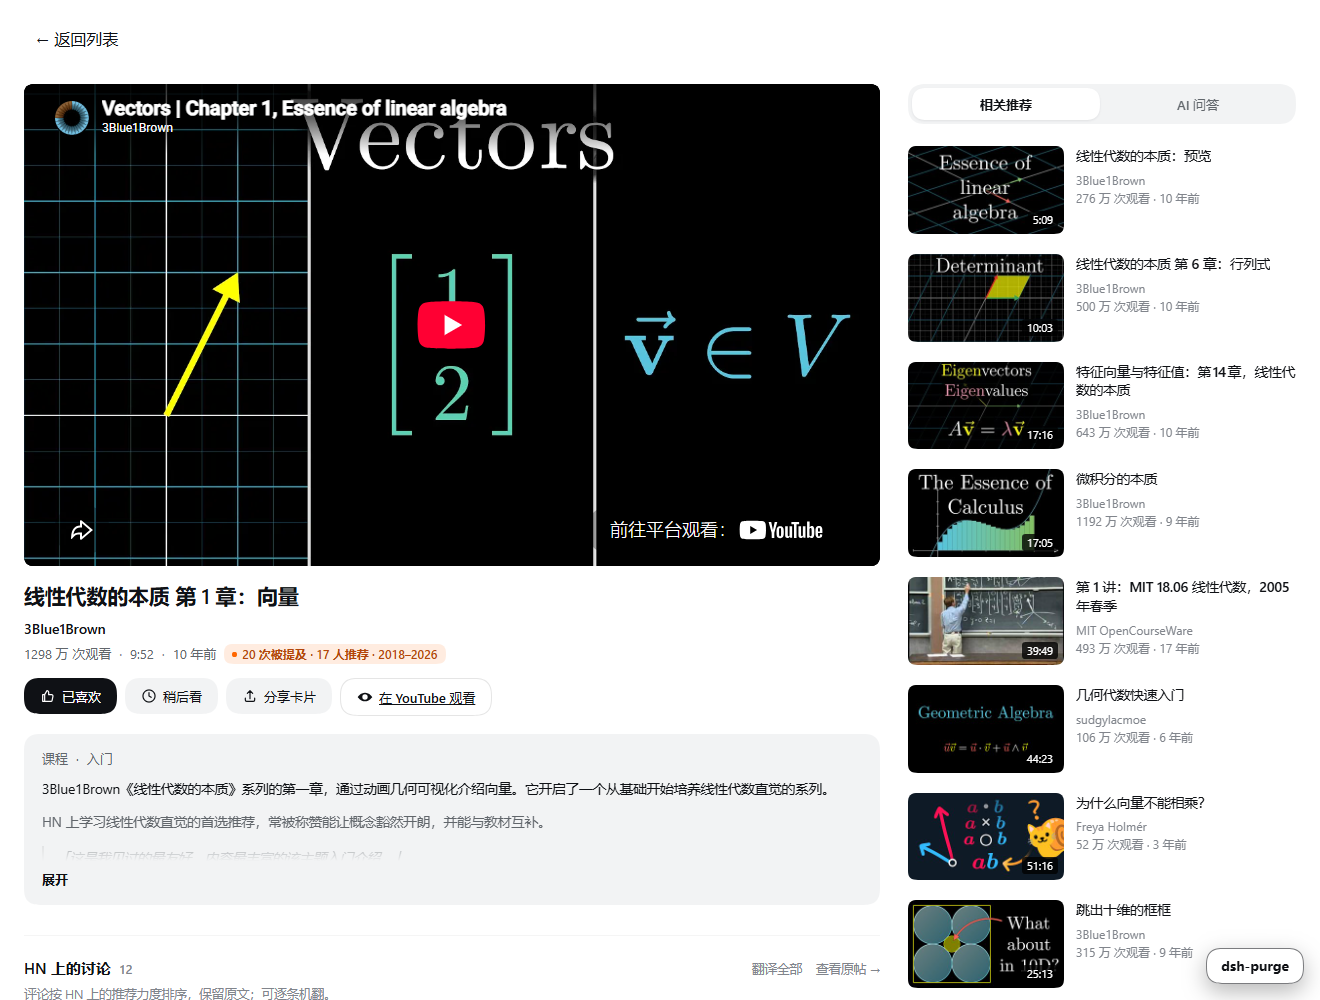
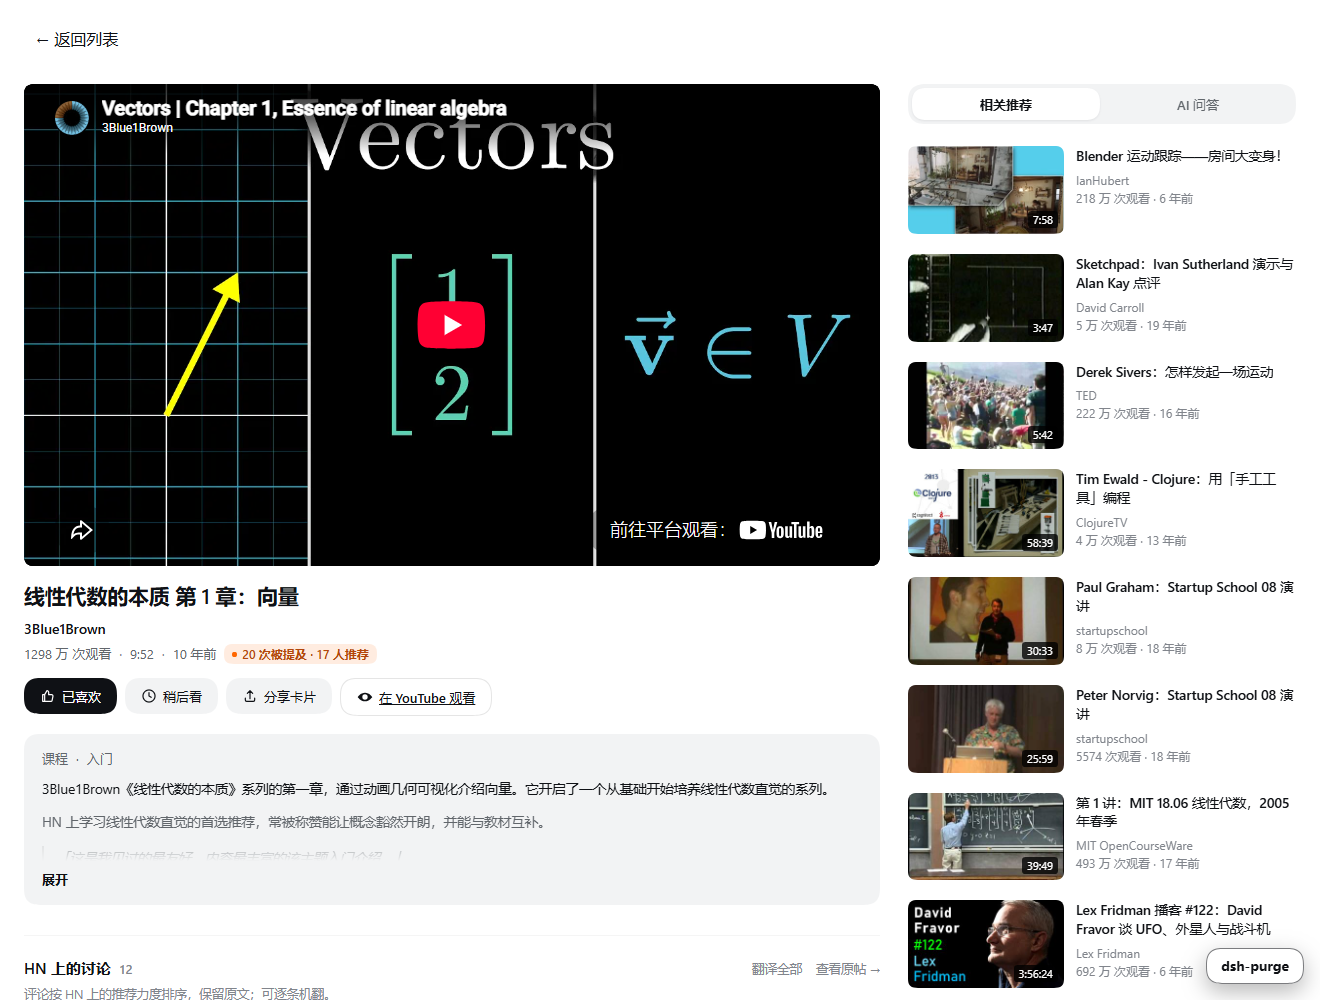
docs: 重写 README，补英文版
- 标题改用 DeepSeek Harness 官方名称，便于搜索命中
- 中文版按正式技术文档重写，删掉口语化表达与两处举例
- 新增 README.en.md，两版顶部互相跳转
- package.json 描述与关键词补齐 deepseek / deepseek-harness
- 首页与详情页截图更新为当前构建

Changed region(s): [[0.6833, 0.124, 0.9939, 0.992], [0.2795, 0.62, 0.3417, 0.682]]

diff --git a/README.md b/README.md
@@ -1,102 +1,174 @@
-# HackerTube for DSH
+# HackerTube for DeepSeek Harness
 
-把 [hackertube.org](https://hackertube.org) 收录的 6454 个视频（Hacker News 二十年里被反复推荐的技术视频）做成一块 DSH 面板：直接播放、中英双语、中文搜索、带 AI 问答和 HN 讨论。
+简体中文 | [English](README.en.md)
+
+在 DSH 面板内浏览并播放 Hacker News 二十年间反复推荐的技术视频，无需切换到浏览器。触手可及的高质量英文视频信源，让你的 DeepSeek Harness 变得更丰富有趣。
 
 ![首页](docs/home.png)
 
-![详情页](docs/watch.png)
+数据集来自 Andrej Karpathy 的 [HackerTube](https://karpathy.bearblog.dev/hacker-tube/)。站点提供完整的数据导出，作者在博客中说明其用途：
 
-## 功能
+> Export of the site's data available to give to your agent to easily create your own version.
 
-- **浏览**：首页网格、16 个大类 / 150 个二级分类、播放列表、喜欢、稍后看、历史
-- **播放**：自起中转服务器托管 YouTube IFrame 播放器，播放位置实时回传，用作 AI 的上下文
-- **双语界面**：中英一键切换，界面文案零混排；热度数字中文走「万 / 亿」，英文走 K / M / B
-- **中文搜索**：中文标题、英文原文、频道、标签、二级分类名都参与检索；中文查询会先机翻成英文再匹配英文标签
-- **标题译文**：6454 条人工水准的中文标题随仓库附带，装完即用，不消耗模型额度
-- **详情页**：简介卡（默认折叠、可展开）、HN 推荐理由、评论引用、话题标签
-- **HN 讨论**：按推荐力度排序的前 12 条评论，可逐条或整段机翻
-- **AI 问答**：右侧栏「相关推荐 / AI 问答」两页切换，流式输出，回答引用字幕与 HN 统计
-- **分享卡片**：一键生成带 HN 数据的视频卡片
-- **键盘操作**：`/` 聚焦搜索、方向键在卡片间移动、`Enter` 打开
+本插件使用的正是这份官方导出。非官方项目，与 Andrej Karpathy、Hacker News、YouTube 均无隶属关系。
+
+原站同样可以直接访问。将其并入面板带来两点差异：一是省去窗口切换，二是提供完整的中文支持，包括标题、分类、摘要与评论。
 
 ## 安装
 
-需要 DSH 本体。插件作为一个 bundle 安装后再启用：
+需要已安装 DeepSeek Harness 本体。
 
 ```
 plugin_manager install_bundle target=dsh-hackertube
 ```
 
-如果还没发布到 npm，也可以从 Git 仓库直接装（宿主如何解析安装参数取决于版本，装不上就走 npm）：
+未发布到 npm 时，可从 Git 仓库安装。宿主如何解析安装参数取决于版本，失败时改用上一条命令。
 
 ```
 plugin_manager install_bundle target=github:chow651/dsh-hackertube
 ```
 
-装完在「插件」列表里启用 `dsh-hackertube`，刷新页面即可看到入口图标。首次打开会从 hackertube.org 拉一次数据（约 8 MB，之后走本地缓存，24 小时过期）。
+安装后在插件列表中启用 `dsh-hackertube` 并刷新页面。无需额外配置，无需 API key，也不需要在安装前预取任何数据。
 
-## 运行前提与降级
+## 功能
 
-插件只依赖 DSH 提供的 `webServer` 与（可选的）模型服务，不依赖任何 npm 包。
+![详情页](docs/watch.png)
 
-| 能力 | 需要 | 缺失时 |
+收录 6454 个视频，分属 16 个大类与 150 个二级分类，按 HN 推荐力度排序。首页首次加载 60 条，滚动时分批追加。
+
+详情页包含播放器、该视频在 HN 上的讨论，以及右侧的相关推荐。右侧另有 AI 问答页，会把当前播放位置前后三分钟的字幕片段一并交给模型，因此可以询问某一段的具体内容。
+
+搜索支持中英文混用，中文查询会同时匹配中文标题与英文标签。
+
+喜欢、稍后看与播放历史记录在宿主侧，清除浏览器数据不会丢失。
+
+### 快捷键
+
+| 按键 | 作用 |
+|---|---|
+| `/` | 聚焦搜索框 |
+| `j` `k` | 在卡片间上下移动 |
+| `Enter` | 打开当前卡片 |
+| `l` | 标记喜欢 |
+| `w` | 加入稍后看 |
+| `h` | 返回首页 |
+| `?` | 显示快捷键一览 |
+| `Esc` | 关闭浮层 |
+
+## 首次启动
+
+插件加载时即开始下载官方数据导出（17.8 MB，一次性），并同时请求上游接口补齐 YouTube 的时长、播放量与发布时间。两者完成后列表才是完整状态，期间界面显示骨架屏。
+
+| 项目 | 实测耗时 |
+|---|---|
+| 首次安装（空缓存） | 约 10 秒 |
+| 后续启动，列表加载 | 45 毫秒 |
+| 打开详情页 | 10 毫秒 |
+| 相关推荐，有共推荐关系的 3778 个视频 | 2 毫秒 |
+| 相关推荐，其余 2676 个视频（向量近邻） | 首次约 0.7 秒 |
+| 摘要与推荐理由机翻 | 首次 0.4 至 1.8 秒 |
+
+数据导出有效期为七天，YouTube 元信息缓存二十四小时。
+
+## 中文支持
+
+界面文案统一通过 `tx(lang, 中文, English)` 输出，两种语言下均不会出现中英混排。数量单位随语言切换，中文使用万与亿，英文使用 K 与 M。
+
+内容层面的中文来源如下。
+
+| 内容 | 来源 | 生效时机 |
 |---|---|---|
-| 列表、分类、搜索、播放 | `webServer` + 网络 | 面板不可用 / 播放器不可用 |
-| 中文标题、分类名 | 无（随仓库附带） | — |
-| AI 问答、标题增量翻译 | DSH 的模型服务 | 面板顶部提示「模型不可用」，其余功能正常 |
-| 评论机翻 | 外网（Google 网页翻译公共端点） | 按钮报错，保留原文 |
-| 字幕、备用直链播放 | `yt-dlp`、`ffmpeg` 在 PATH 里 | 只用 YouTube 播放器，AI 缺少字幕上下文 |
+| 6454 条视频标题 | 随仓库附带的译文表 | 安装后立即生效 |
+| 166 条分类名称 | 随仓库附带 | 安装后立即生效 |
+| 摘要、推荐理由、评论引用 | 打开时自动翻译 | 优先使用模型，模型不可用时使用机翻 |
+| HN 评论正文 | 逐条翻译或整段翻译 | 首次约 1 秒，之后读取缓存 |
 
-`yt-dlp` 与 `ffmpeg` 只影响两面：AI 问答时能否带上字幕、YouTube 嵌入被拒时能否回退到直链流。二者都不装也能正常看视频。
+模型译文与机翻译文分别存放。配置模型后，模型译文会覆盖机翻结果，不会因机翻先行而无法更新。
 
-## 数据与缓存
+机翻调用 Google 网页翻译的公共端点。评论正文默认保持英文原文，翻译为显式操作。
 
-全部落在 `$DSH_PROFILE_DIR/.dsh-hackertube/`（默认 `~/.dsh/.dsh-hackertube/`），删掉即恢复出厂：
+## 依赖与降级
+
+| 能力 | 依赖 | 缺失时的表现 |
+|---|---|---|
+| 列表、分类、搜索、播放 | DSH 的 webServer 与外网 | 面板不可用或播放器无法加载 |
+| 中文标题与分类名 | 无 | 已随仓库提供 |
+| 摘要等三段文本的中文 | 模型或外网 | 显示英文原文 |
+| AI 问答 | DSH 已配置模型 | 面板提示模型不可用，其余功能正常 |
+| 评论翻译 | 外网 | 按钮无响应，文本保持原文 |
+| 字幕与直链兜底播放 | PATH 中存在 yt-dlp 与 ffmpeg | 视频仍可播放，AI 缺少字幕上下文 |
+
+yt-dlp 与 ffmpeg 均为可选。它们只影响两件事：AI 问答能否携带字幕上下文，以及 YouTube 嵌入被拒绝时能否回退到直链播放。
+
+## 数据来源
+
+`https://hackertube.org/download/hackertube-data.zip`，17.8 MB，导出于 2026 年 10 月 31 日。
 
 ```
-list.json            列表缓存（24 小时）
-browse.json          分类树
-i18n/zh-titles.json  标题译文（首次由 data/ 铺入）
-i18n/zh.json         详情页摘要/推荐理由/引用的译文
-i18n/zh-comments.json  评论机翻缓存
-prefs.json           喜欢 / 稍后看 / 历史
-subs/                字幕缓存
+videos.jsonl       6454 条视频，含标题、频道、摘要、推荐理由、标签、分类、HN 统计
+mentions.jsonl    39834 条 HN 评论，含作者、月份、立场、原文
+related.jsonl      3778 条共推荐关系
+embeddings.npy     6454 × 384 维 float16 向量，用于补齐无共推荐关系的视频
+embedding_ids.json 向量行号与视频 id 的对应
+taxonomy.json      150 个分类，16 个大类
 ```
 
-仓库里的 `data/` 是预生成的译文打底数据，只在缓存缺失时拷进缓存目录，不会覆盖用户已有的翻译。
+解压使用 Node 内置的 zlib，插件不引入任何 npm 运行时依赖。
 
-## 已知边界
+导出不包含时长、播放量、发布时间与封面，这些字段属于 YouTube 元数据，因此列表仍会并行请求 65 页上游接口补齐，结果缓存一天。
 
-- 标题译文由模型生成后人工规则校过（分隔符、结构、术语），仍有约 1000 条语序偏直译，可以重新跑 `/titles/retranslate` 修补
-- 评论机翻走 Google 网页翻译的公共端点，用的是 Chrome 内置翻译的公开 key，可能随时失效或限流；失效时会自动退到 `translate_a` 单条接口
-- 中文查询的机翻扩展是一次查询一次请求（300ms 防抖 + 内存缓存），离线时只保留本地匹配
-- YouTube 嵌入受上游策略影响，个别视频（年龄限制、地区限制）只能在 YouTube 上看
-- 播放器中转页跑在 `127.0.0.1:18090`，被占用时自动顺延到 18091/18092/18093
+## 缓存目录
+
+全部位于 `$DSH_PROFILE_DIR/.dsh-hackertube/`，默认路径为 `~/.dsh/.dsh-hackertube/`。删除整个目录可恢复到初始状态。
+
+```
+export/               解包后的官方数据，约 48 MB
+i18n/zh-titles.json   标题译文
+i18n/zh-taxonomy.json 分类译文
+i18n/zh.json          模型翻译的详情文本
+i18n/zh-mt.json       机翻的详情文本
+i18n/zh-comments.json 评论机翻缓存
+list.json             YouTube 元信息与列表快照
+prefs.json            喜欢、稍后看、历史
+subs/                 字幕
+```
+
+## 已知限制
+
+标题译文由模型生成后按规则校对，多数通顺，仍有约一千条偏向直译。
+
+中文查询需要先机翻为英文才能命中英文标签，每次查询发起一次请求，含 300 毫秒防抖与内存缓存。断网时仅保留本地匹配。
+
+YouTube 嵌入受上游策略限制，年龄限制或地区限制的视频需前往 YouTube 观看。
+
+播放中转页监听 `127.0.0.1:18090`，端口被占用时依次尝试 18091 与 18092。
 
 ## 开发
 
 ```
-node test/host-smoke.mjs      # Host 半：路由、缓存、翻译播种，33 项
-node test/client-render.mjs   # Client 渲染：41 项，需要 react-test-renderer
+node test/host-smoke.mjs      # Host 半，42 项
+node test/client-render.mjs   # Client 渲染，41 项
 ```
 
 ```
-npm install   # 只装测试用的 react / react-test-renderer
+npm install   # 仅安装测试所需的 react 与 react-test-renderer
 npm test
 ```
 
-改代码后重载（不要重启 DSH）：
+修改代码后重载插件，无需重启 DSH：
 
 ```
 plugin_manager set_bundle enabled=false target=dsh-hackertube
 plugin_manager set_bundle enabled=true  target=dsh-hackertube
 ```
 
-Host 半改动重载即生效，Client 半需要刷新浏览器页面。
+Host 半改动重载后立即生效，Client 半改动需要刷新页面。
 
-`prototype/`## 致谢
+## 致谢
 
-视频数据与推荐理由来自 [hackertube.org](https://hackertube.org)；讨论内容来自 [Hacker News](https://news.ycombinator.com)。本项目只是把这些公开数据搬进 DSH 面板。
+感谢 Andrej Karpathy 开发 HackerTube 并将数据导出公开，本插件建立在这份工作之上。
+
+讨论内容来自 [Hacker News](https://news.ycombinator.com)，视频托管于 YouTube。
 
 ## 许可
 

diff --git a/README.en.md b/README.en.md
@@ -1,0 +1,175 @@
+# HackerTube for DeepSeek Harness
+
+[简体中文](README.md) | English
+
+Browse and watch the videos Hacker News has recommended over two decades, without leaving the DeepSeek Harness panel. A high-quality English video library within reach, which makes the harness a richer and more enjoyable place to work.
+
+![Home](docs/home.png)
+
+The dataset comes from [HackerTube](https://karpathy.bearblog.dev/hacker-tube/) by Andrej Karpathy. The site ships a complete data export, and the author describes its purpose in his post:
+
+> Export of the site's data available to give to your agent to easily create your own version.
+
+This plugin consumes that official export. It is an unofficial project and is not affiliated with Andrej Karpathy, Hacker News, or YouTube.
+
+The original site works fine on its own. Moving it into the panel changes two things. You no longer switch windows, and the interface is fully available in Chinese, including titles, categories, summaries, and comments.
+
+## Installation
+
+Requires DeepSeek Harness.
+
+```
+plugin_manager install_bundle target=dsh-hackertube
+```
+
+If the package is not on npm yet, install from the Git repository. How the host parses the install argument depends on its version, so fall back to the command above if this one fails.
+
+```
+plugin_manager install_bundle target=github:chow651/dsh-hackertube
+```
+
+After installing, enable `dsh-hackertube` in the plugin list and refresh the page. No configuration, no API key, and no data to fetch beforehand.
+
+## Features
+
+![Watch page](docs/watch.png)
+
+The panel holds 6,454 videos across 16 areas and 150 categories, ordered by how strongly Hacker News recommends them. The home grid loads 60 cards at first and appends more as you scroll.
+
+The watch page has the player, the Hacker News discussion for that video, and a related rail on the right. The rail has a second pane for AI questions. It hands the model the subtitle lines within three minutes of the current playhead, so you can ask what a particular segment covers.
+
+Search works with English and Chinese queries. A Chinese query matches both the Chinese title and the English tags.
+
+Likes, watch later, and history live on the host side, so clearing browser data does not lose them.
+
+### Keyboard shortcuts
+
+| Key | Action |
+|---|---|
+| `/` | Focus the search field |
+| `j` `k` | Move between cards |
+| `Enter` | Open the focused card |
+| `l` | Like |
+| `w` | Add to watch later |
+| `h` | Back to home |
+| `?` | Show all shortcuts |
+| `Esc` | Close overlay |
+
+## First launch
+
+The plugin starts downloading the official export as soon as it loads, 17.8 MB in one request, and at the same time requests upstream pages to fill in YouTube duration, view count, and publish date. The list is only complete once both finish. A skeleton screen covers the panel in the meantime.
+
+| Scenario | Measured |
+|---|---|
+| First install, empty cache | about 10 seconds |
+| Later launches, list load | 45 ms |
+| Opening a watch page | 10 ms |
+| Related, the 3,778 videos with co-recommendation data | 2 ms |
+| Related, the other 2,676 videos, by vector similarity | about 0.7 s on first use |
+| Machine translation of summary and recommendation note | 0.4 to 1.8 s on first use |
+
+The export stays valid for seven days. YouTube metadata is cached for twenty-four hours.
+
+## Chinese support
+
+Every interface string goes through `tx(lang, 中文, English)`, so neither language mode shows mixed text. Number units follow the language, with 万 and 亿 in Chinese and K and M in English.
+
+Content-level Chinese comes from four places.
+
+| Content | Source | When it applies |
+|---|---|---|
+| 6,454 video titles | Translation table shipped in the repository | Immediately after install |
+| 166 category names | Shipped in the repository | Immediately after install |
+| Summary, recommendation note, quoted comment | Translated when the page opens | Model first, machine translation as fallback |
+| Hacker News comment bodies | Per comment or in bulk, on demand | About 1 second, then cached |
+
+Model output and machine translation are stored separately. Once a model is configured, its translations replace the machine output rather than being blocked by it.
+
+Machine translation uses the public Google web translate endpoint. Comment bodies stay in English by default. Translation is an explicit action.
+
+## Dependencies and degradation
+
+| Capability | Requires | Without it |
+|---|---|---|
+| List, categories, search, playback | The DSH web server and network access | The panel or the player does not load |
+| Chinese titles and category names | Nothing | Shipped with the repository |
+| Chinese for summary and the other two fields | A model or network access | English source text is shown |
+| AI questions | A model configured in DSH | The panel reports the model is unavailable, everything else works |
+| Comment translation | Network access | The button does nothing and the text stays as written |
+| Subtitles and direct-stream fallback | `yt-dlp` and `ffmpeg` on PATH | Video still plays, the AI answers lose subtitle context |
+
+Both `yt-dlp` and `ffmpeg` are optional. They affect two things only, whether AI answers can use subtitles and whether playback can fall back to a direct stream when YouTube refuses the embed.
+
+## Data source
+
+`https://hackertube.org/download/hackertube-data.zip`, 17.8 MB, exported on 31 October 2026.
+
+```
+videos.jsonl       6,454 videos with title, channel, summary, recommendation note, tags, categories, HN stats
+mentions.jsonl    39,834 HN comments with author, month, stance, and body
+related.jsonl      3,778 co-recommendation rows
+embeddings.npy     6,454 × 384 float16 vectors, used to fill in videos without co-recommendation data
+embedding_ids.json Row index to video id
+taxonomy.json      150 categories in 16 areas
+```
+
+Unpacking uses the zlib module built into Node, so the plugin ships with no npm runtime dependencies.
+
+The export has no duration, view count, publish date, or thumbnail, since those are YouTube metadata. The list therefore still requests 65 upstream pages in parallel to fill them in, cached for one day.
+
+## Cache
+
+Everything lives under `$DSH_PROFILE_DIR/.dsh-hackertube/`, by default `~/.dsh/.dsh-hackertube/`. Deleting the directory resets the plugin to a clean state.
+
+```
+export/               Unpacked official data, about 48 MB
+i18n/zh-titles.json   Title translations
+i18n/zh-taxonomy.json Category translations
+i18n/zh.json          Model translations for detail text
+i18n/zh-mt.json       Machine translations for detail text
+i18n/zh-comments.json Comment translation cache
+list.json             YouTube metadata and list snapshot
+prefs.json            Likes, watch later, history
+subs/                 Subtitles
+```
+
+## Known limitations
+
+Title translations are model output checked by rules. Most read naturally, and roughly a thousand remain close to word-for-word.
+
+A Chinese query is machine translated into English before it can reach English tags. That costs one request per query, debounced by 300 ms and cached in memory. Offline, only local matching applies.
+
+YouTube embeds follow upstream policy. Age-restricted and region-restricted videos are only available on YouTube.
+
+The playback relay listens on `127.0.0.1:18090`, falling back to 18091 and 18092 when the port is taken.
+
+## Development
+
+```
+node test/host-smoke.mjs      # Host side, 42 checks
+node test/client-render.mjs   # Client rendering, 41 checks
+```
+
+```
+npm install   # Installs react and react-test-renderer for the tests only
+npm test
+```
+
+Reload the plugin after changing code. Do not restart DSH.
+
+```
+plugin_manager set_bundle enabled=false target=dsh-hackertube
+plugin_manager set_bundle enabled=true  target=dsh-hackertube
+```
+
+Changes on the host side take effect on reload. Changes on the client side need a page refresh.
+
+## Credits
+
+Thanks to Andrej Karpathy for building HackerTube and for publishing its data export. This plugin builds on that work.
+
+Discussion content comes from [Hacker News](https://news.ycombinator.com). Videos are hosted on YouTube.
+
+## License
+
+MIT
